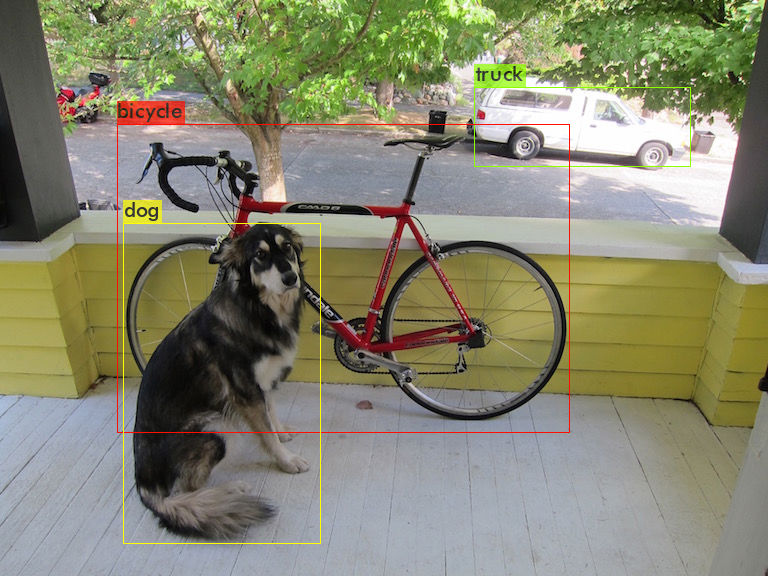
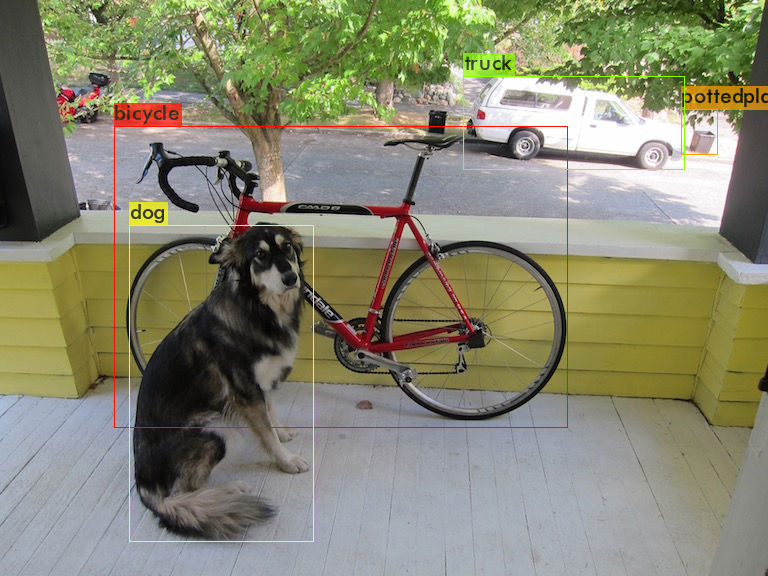
switch to YOLOv4, speed up on CPU

diff --git a/iou_main.py b/iou_main.py
@@ -23,7 +23,7 @@ img_path_ls.sort()
 
 
 # incorporate IMU and depth info
-imu_ls = [(0, 0, 0)]
+imu_ls = [(0, 0, 0), (0, 0, 0)]
 # TODO: put the IMU data in /input, and import it here
 
 
@@ -36,7 +36,7 @@ def process_img(img_path: str) -> []:
             where class = ('tag', confidence, (x, y, w, h))
             The X and Y coordinates are from the center of the bounding box, w & h are width and height of the box
     """
-    detect_result: {} = performDetect(imagePath=img_path, thresh=0.70,
+    detect_result: {} = performDetect(imagePath=img_path, thresh=0.20,
                                       metaPath="./darknet/cfg/kf_coco.data", showImage=True)
     parsed_result: [] = parse_yolo_output(detect_result)
     return parsed_result
@@ -99,10 +99,6 @@ for i in range(len(img_path_ls)):
 if __name__ == '__main__':
     print("--------------------------------------")
     print("image path is: ", img_path_ls)
-    print(updated_obser_ls[0])
-    # for obj in updated_obser_ls[0]:
-    #     print(obj)
-    #     for instance in obj:
-    #         print(instance)
-    # print(len(updated_obser_ls[0]))
+    for item in updated_obser_ls:
+        print(item)
     print("--------------------------------------")

diff --git a/darknet/darknet.py b/darknet/darknet.py
@@ -354,8 +354,8 @@ metaMain = None
 altNames = None
 
 
-def performDetect(imagePath=".darknet/data/dog.jpg", thresh=0.25, configPath="./darknet/cfg/yolov3.cfg",
-                  weightPath="darknet/yolov3.weights", metaPath="./darknet/cfg/coco.data", showImage=True,
+def performDetect(imagePath=".darknet/data/dog.jpg", thresh=0.25, configPath="./darknet/cfg/yolov4.cfg",
+                  weightPath="darknet/yolov4.weights", metaPath="./darknet/cfg/coco.data", showImage=True,
                   makeImageOnly=False, initOnly=False):
     """
     Convenience function to handle the detection and returns of objects.
